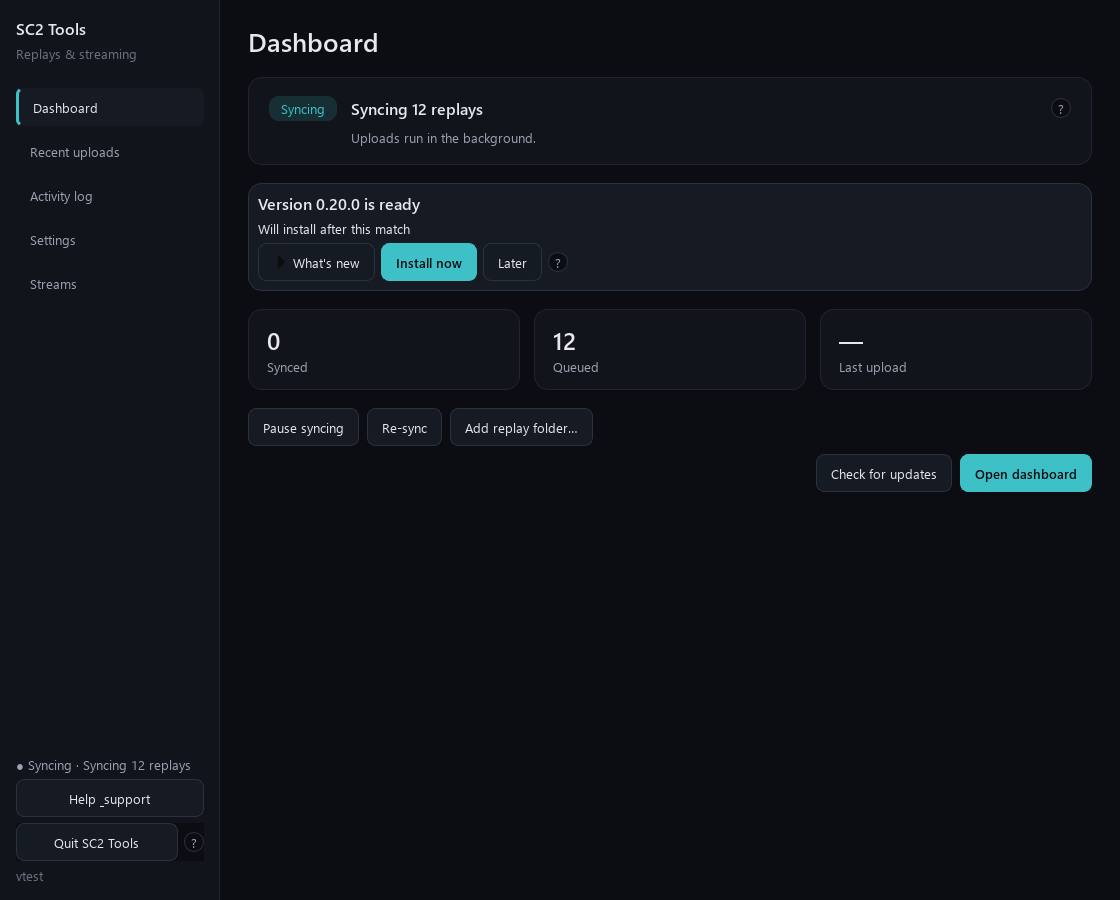
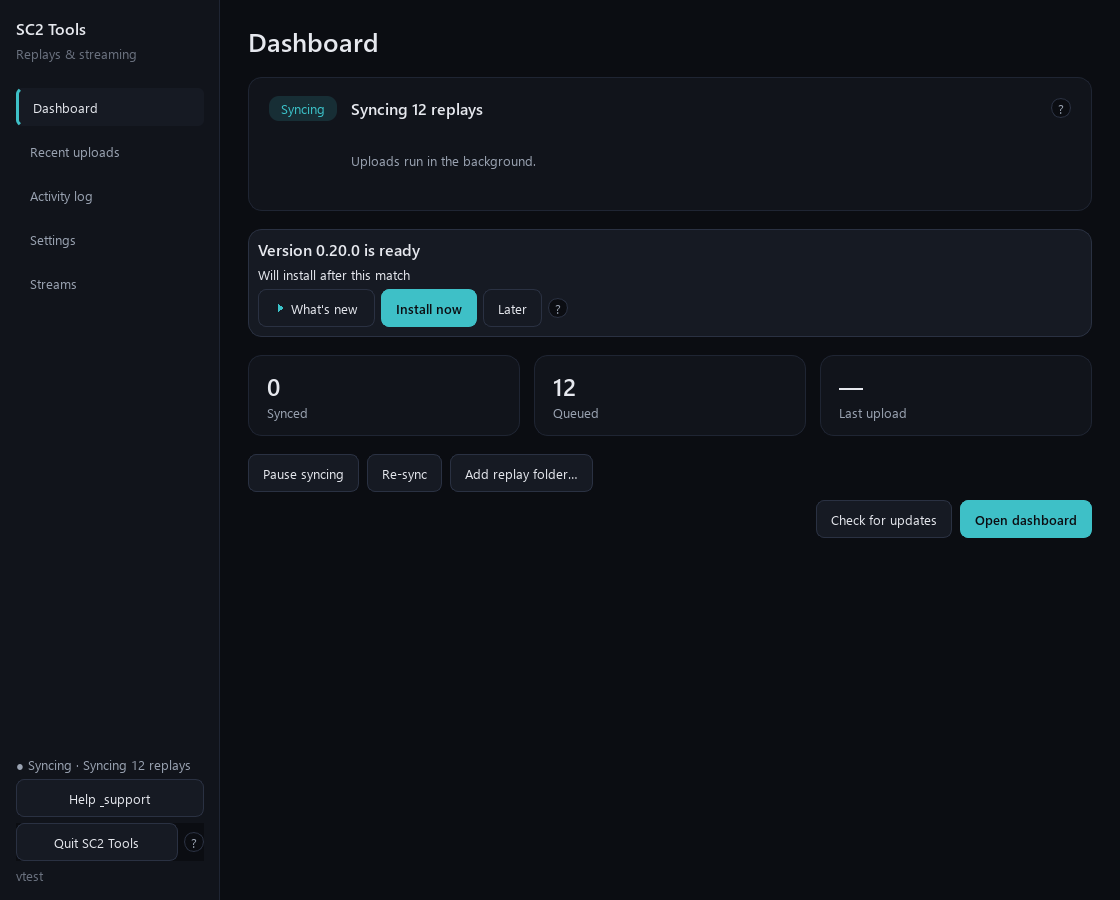
fix(agent): keep update disclosure arrows visible on dark surfaces

diff --git a/apps/agent/sc2tools_agent/ui/update_card.py b/apps/agent/sc2tools_agent/ui/update_card.py
@@ -1,6 +1,20 @@
 """A persistent update card whose notes and actions survive transient notices."""
 
 def build_update_card(parent, *, QtCore, QtWidgets, install, later, download, help_button):
+    from PySide6 import QtGui
+    from . import palette
+
+    def arrow_icon(expanded):
+        pixmap = QtGui.QPixmap(12, 12)
+        pixmap.fill(QtCore.Qt.transparent)
+        painter = QtGui.QPainter(pixmap)
+        painter.setPen(QtCore.Qt.NoPen)
+        painter.setBrush(QtGui.QColor(palette.CYAN))
+        points = ((2, 3), (10, 3), (6, 9)) if expanded else ((3, 2), (9, 6), (3, 10))
+        painter.drawPolygon(QtGui.QPolygon([QtCore.QPoint(x, y) for x, y in points]))
+        painter.end()
+        return QtGui.QIcon(pixmap)
+
     class UpdateCard(QtWidgets.QFrame):
         def __init__(self):
             super().__init__(parent)
@@ -15,9 +29,8 @@ def build_update_card(parent, *, QtCore, QtWidgets, install, later, download, he
             row = QtWidgets.QHBoxLayout()
             self.notes_button = QtWidgets.QPushButton("What's new")
             self.notes_button.setCheckable(True)
-            self.notes_button.setIcon(self.style().standardIcon(QtWidgets.QStyle.SP_ArrowRight))
-            self.notes_button.toggled.connect(lambda shown: self.notes_button.setIcon(
-                self.style().standardIcon(QtWidgets.QStyle.SP_ArrowDown if shown else QtWidgets.QStyle.SP_ArrowRight)))
+            self.notes_button.setIcon(arrow_icon(False))
+            self.notes_button.toggled.connect(lambda shown: self.notes_button.setIcon(arrow_icon(shown)))
             row.addWidget(self.notes_button)
             self.install_button = QtWidgets.QPushButton("Install now")
             self.install_button.setObjectName("primary")

diff --git a/apps/agent/tests/test_gui_runtime_controls.py b/apps/agent/tests/test_gui_runtime_controls.py
@@ -79,7 +79,13 @@ ui.show_update_state(release,"ready","");app.processEvents()
 ui.show_transient_notice("Recording a replay");app.processEvents()
 assert win._update_card.title.text()=="Version 0.20.0 is ready"
 assert win._transient_notice.text()=="Recording a replay"
-win._update_card.notes_button.click();assert "Better syncing" in win._update_card.notes.toPlainText()
+from sc2tools_agent.ui import palette
+for expanded in (False, True):
+    win._update_card.notes_button.setChecked(expanded)
+    arrow=win._update_card.notes_button.icon().pixmap(12,12).toImage()
+    assert arrow.pixelColor(6,6).name()==palette.CYAN
+win._update_card.notes_button.setChecked(True)
+assert "Better syncing" in win._update_card.notes.toPlainText()
 win._update_card.install_button.click();assert installed.wait(1)
 win._update_card.later_button.click();assert later.wait(1)
 ui.show_update_state(release,"failed","Checksum mismatch");app.processEvents()
